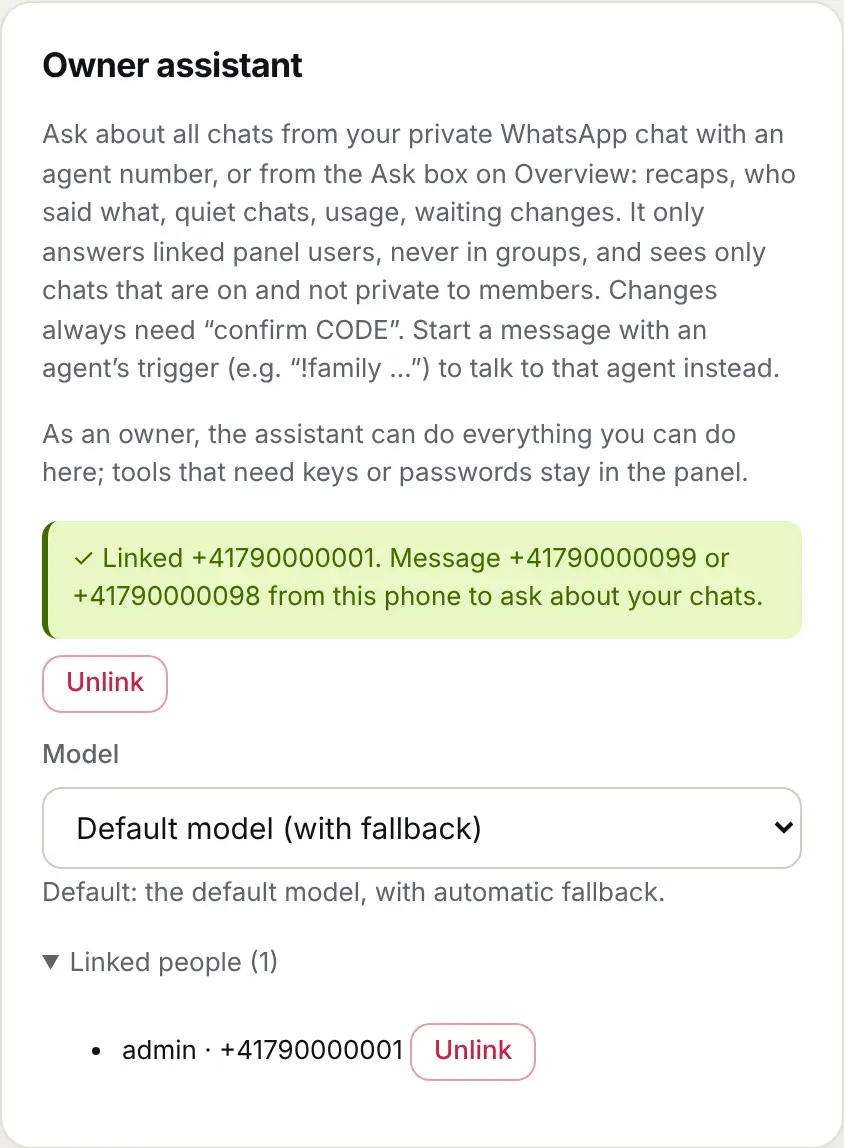
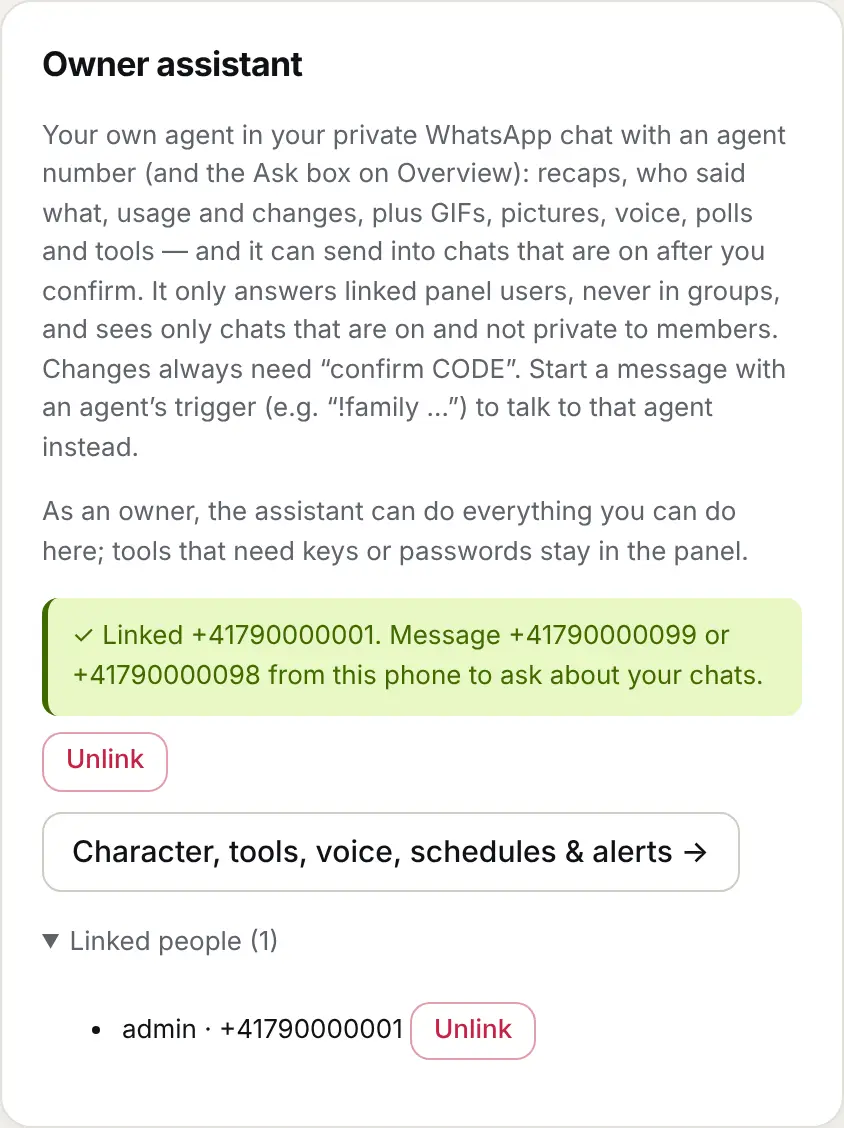
Owner assistant: retake site shots, hide shared notes in its editor
Refs #119

Claude-Session: https://claude.ai/code/session_014omnJXeGyyVEJAZVY1v8BS

diff --git a/src/panel/public/index.html b/src/panel/public/index.html
@@ -1875,7 +1875,7 @@ async function renderAgentEditor(id) {
       notes.length ? h('ul', { class: 'small' }, notes.map((n) => h('li', { style: 'margin:6px 0' }, n.text, h('span', { class: 'muted' }, ` — ${n.author || '?'}, ${time(n.ts)} `),
         can('admin') ? h('button', { class: 'btn small mut', onclick: () => tryApi(async () => { await api('DELETE', `/api/notes/${n.id}`); loadSharedMem(); }, 'Note deleted') }, 'Delete') : null))) : h('p', { class: 'small muted' }, 'No shared notes yet.'));
   };
-  loadSharedMem();
+  if (!bi) loadSharedMem(); // 059: the owner assistant's notes are per user (private), not shared notes
   $('#main').replaceChildren(
     h('div', { class: 'row spread editor-bar', style: 'margin-bottom:12px' }, h('button', { class: 'btn', onclick: () => { location.hash = 'agents'; } }, '← All agents'),
       h('div', { class: 'row actions' },
@@ -1900,7 +1900,7 @@ async function renderAgentEditor(id) {
           bi ? null : field('Who may message it directly', F.dm)),
         h('fieldset', {}, h('legend', {}, bi ? 'Character' : 'Instructions'), bi ? h('p', { class: 'small muted', style: 'margin-top:0' }, 'Tone, language and habits, e.g. “Answer in English, short; call me Vik; start mornings with the weather in Aigle.” Added to the built-in instructions; it never widens what it may do.') : null, F.prompt),
         bi ? null : quickBox.el,
-        sharedMemBox,
+        bi ? null : sharedMemBox,
         bi ? null : h('fieldset', {}, h('legend', {}, 'People & roles'),
           h('p', { class: 'small muted', style: 'margin-top:0' }, 'Organizers can use organizer tools and confirm changes. Everyone else in the agent’s groups is a participant.'),
           peopleBox,
